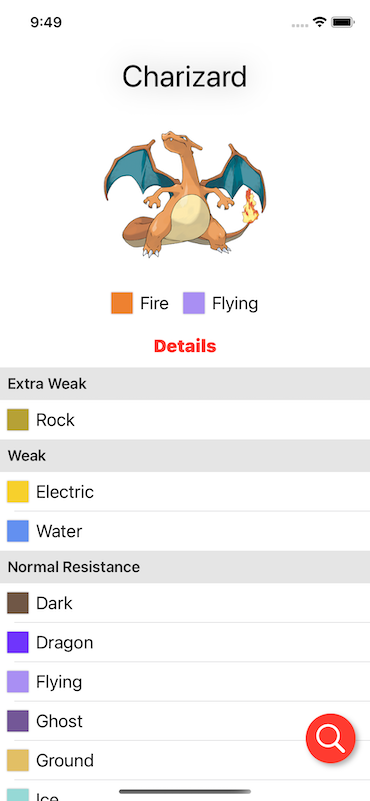
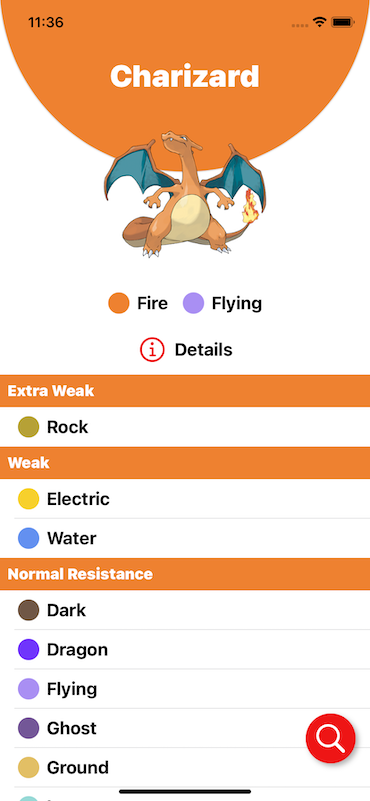
Start adding screen for ability details

diff --git a/PokeTypeCalculator/UI/Calculator/View/DamageRelationView.swift b/PokeTypeCalculator/UI/Calculator/View/DamageRelationView.swift
@@ -12,17 +12,23 @@ struct DamageRelationView: View {
     @ObservedObject var holder: PokemonHolder
     
     var body: some View {
+        
         if let damageRelation = self.holder.primaryType.type?.damageRelation {
             let calculation = DamageRelationCalculation(primaryType: damageRelation, secondaryType: self.holder.secondaryType.type?.damageRelation)
             
             List {
                 ForEach(calculation.sections) { section in
-                    Section(header: SectionHeaderView(headerText: section.name)) {
+                    Section(header:SectionHeaderView(headerText: section.name, textColor: .white)
+                                .background(holder.primaryType.type?.color ?? .black)
+                                .listRowInsets(EdgeInsets(.zero))
+                                
+                    )
+                    {
                         ForEach(section.types) { type in
                             TypeBadgeView(type: type)
+                                .padding(.trailing, 8.0)
                         }
                     }
-                    .listRowInsets(.init())
                 }
             }
         }

diff --git a/PokeTypeCalculator/UI/Ability/AbilityDetailView.swift b/PokeTypeCalculator/UI/Ability/AbilityDetailView.swift
@@ -1,0 +1,28 @@
+//
+//  AbilityDetailView.swift
+//  PokeTypeCalculator
+//
+//  Created by Brandon Jenniges on 1/24/21.
+//
+
+import SwiftUI
+
+struct AbilityDetailView: View {
+    
+    @State var ability: Ability
+    
+    var body: some View {
+        
+        Text(ability.name.capitalized)
+            .foregroundColor(Color(.label))
+            .font(.largeTitle)
+            .shadow(radius: 15)
+            .padding(EdgeInsets(top: 16, leading: 4, bottom: 16, trailing: 4))
+    }
+}
+
+struct AbilityDetailView_Previews: PreviewProvider {
+    static var previews: some View {
+        AbilityDetailView(ability: Ability.mock())
+    }
+}

diff --git a/PokeTypeCalculator/ComponentView/SectionHeaderView.swift b/PokeTypeCalculator/ComponentView/SectionHeaderView.swift
@@ -10,12 +10,21 @@ import SwiftUI
 struct SectionHeaderView: View {
     
     let headerText: String
+    var textColor: Color = .black
     
     var body: some View {
-        Text(headerText.capitalized)
-            .textCase(nil)
-            .font(.headline)
-            .padding(.all, 8.0)
+        HStack {
+            
+            Text(headerText.capitalized)
+                .foregroundColor(textColor)
+                .font(.headline)
+                .fontWeight(.bold)
+                .textCase(nil)
+                .padding(.all, 8.0)
+            
+            // Make it full width
+            Spacer()
+        }
     }
 }
 

diff --git a/PokeTypeCalculator/UI/Calculator/View/PokemonHolderView.swift b/PokeTypeCalculator/UI/Calculator/View/PokemonHolderView.swift
@@ -25,10 +25,12 @@ struct PokemonHolderView: View {
                 HStack(spacing: 0) {
                     if let primaryType = self.holder.primaryType.type {
                         TypeBadgeView(type: primaryType)
+                            .padding(.horizontal, 8.0)
                     }
                     
                     if let secondaryType = self.holder.secondaryType.type {
                         TypeBadgeView(type: secondaryType)
+                            .padding(.horizontal, 8.0)
                     }
                     
                 }

diff --git a/PokeTypeCalculator/UI/Detail/View/AbilityRowView.swift b/PokeTypeCalculator/UI/Detail/View/AbilityRowView.swift
@@ -11,6 +11,8 @@ struct AbilityRowView: View {
     
     let ability: Ability
     
+    @State var showingDetailView = false
+    
     var body: some View {
         
         HStack {
@@ -24,6 +26,11 @@ struct AbilityRowView: View {
                     .font(.footnote)
             }
             
+        }.onTapGesture {
+            self.showingDetailView.toggle()
+        }
+        .sheet(isPresented: $showingDetailView) {
+            AbilityDetailView(ability: self.ability)
         }
     }
 }

diff --git a/PokeTypeCalculator/Model/AbilityEffect.swift b/PokeTypeCalculator/Model/AbilityEffect.swift
@@ -1,0 +1,21 @@
+//
+//  AbilityEffect.swift
+//  PokeTypeCalculator
+//
+//  Created by Brandon Jenniges on 1/24/21.
+//
+
+import Foundation
+
+struct AbilityEffect: Codable {
+    let effect: String
+    let language: Language
+    let shortEffect: String
+    
+    enum CodingKeys: String, CodingKey {
+        case effect
+        case language
+        case shortEffect    = "short_effect"
+    }
+    
+}

diff --git a/PokeTypeCalculator/Network/PokemonAPI.swift b/PokeTypeCalculator/Network/PokemonAPI.swift
@@ -45,4 +45,13 @@ extension PokemonAPI {
             .eraseToAnyPublisher()
     }
     
+    static func getAbilityDetails(_ ability: Ability) -> AnyPublisher<AbilityDetails, Error> {
+        
+        let request = URLRequest(url: ability.url)
+        
+        return apiClient.run(request)
+            .map(\.value)
+            .eraseToAnyPublisher()
+    }
+    
 }

diff --git a/PokeTypeCalculator/Model/AbilityDetails.swift b/PokeTypeCalculator/Model/AbilityDetails.swift
@@ -1,0 +1,17 @@
+//
+//  AbilityDetails.swift
+//  PokeTypeCalculator
+//
+//  Created by Brandon Jenniges on 1/24/21.
+//
+
+import Foundation
+
+struct AbilityDetails: Codable {
+    let effectEntries: [AbilityEffect]
+    
+    enum CodingKeys: String, CodingKey {
+        case effectEntries    = "effect_entries"
+    }
+    
+}

diff --git a/PokeTypeCalculator/Model/Generation.swift b/PokeTypeCalculator/Model/Generation.swift
@@ -1,0 +1,13 @@
+//
+//  Generation.swift
+//  PokeTypeCalculator
+//
+//  Created by Brandon Jenniges on 1/24/21.
+//
+
+import Foundation
+
+struct Generation: Codable {
+    let name: String
+    let url: String
+}

diff --git a/PokeTypeCalculator/Model/Language.swift b/PokeTypeCalculator/Model/Language.swift
@@ -15,10 +15,5 @@ struct Language: Codable {
     
     let name: String
     let url: URL
-    
-    enum CodingKeys: String, CodingKey {
-        case name   = "name"
-        case url    = "url"
-    }
 }
 

diff --git a/PokeTypeCalculator/UI/Calculator/View/TypeBadgeView.swift b/PokeTypeCalculator/UI/Calculator/View/TypeBadgeView.swift
@@ -24,7 +24,6 @@ struct TypeBadgeView: View {
                 .fontWeight(.bold)
             
         }
-        .padding(.horizontal, 8.0)
     }
 }
 
